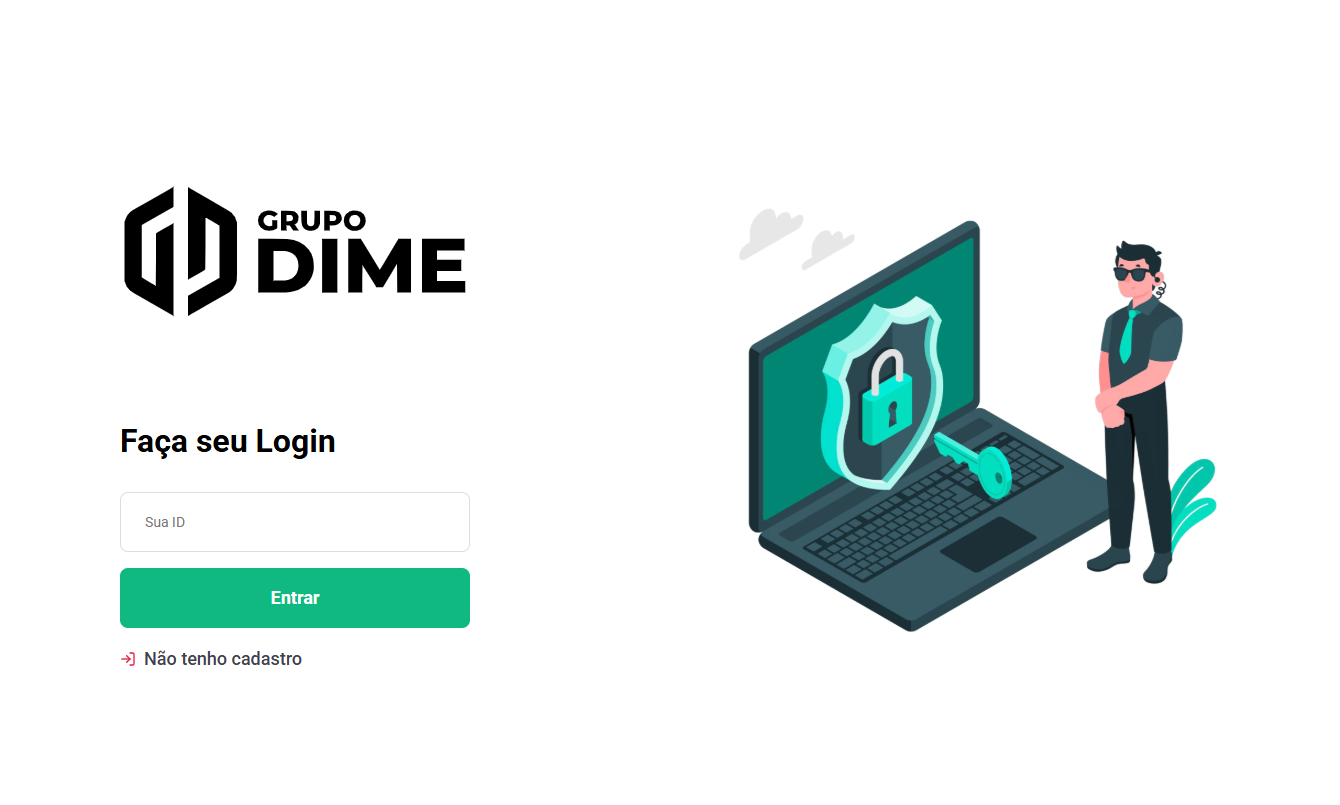
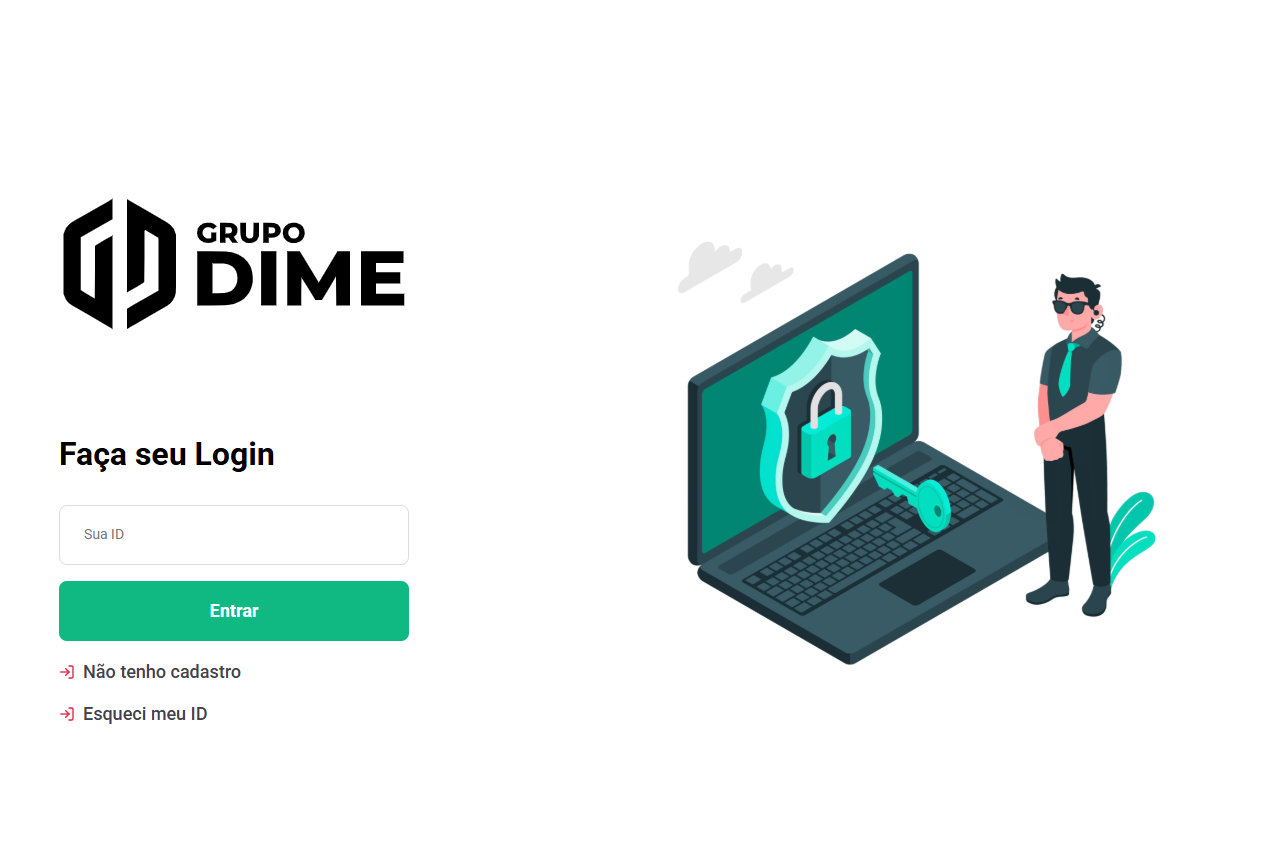
ATT 1.0 25/06/25

diff --git a/mobile/src/pages/BiparCracha.js b/mobile/src/pages/BiparCracha.js
@@ -8,10 +8,12 @@ import {
   Platform,
   Keyboard,
   TextInput,
+  Vibration,
 } from 'react-native';
 import { useNavigation } from '@react-navigation/native';
 import { Ionicons } from '@expo/vector-icons';
 import AsyncStorage from '@react-native-async-storage/async-storage';
+import { Audio } from 'expo-av';
 import api from '../services/api';
 
 export default function BiparCracha() {
@@ -24,7 +26,14 @@ export default function BiparCracha() {
   const [nomeFuncionario, setNomeFuncionario] = useState('');
 
   const navigation = useNavigation();
-  const inputRef = useRef(null); // Referência ao TextInput
+  const inputRef = useRef(null);
+  const soundRef = useRef(null); // Reutiliza o som carregado
+
+  useEffect(() => {
+    Audio.setAudioModeAsync({
+      playsInSilentModeIOS: true,
+    });
+  }, []);
 
   useEffect(() => {
     const timer = setTimeout(() => {
@@ -41,6 +50,30 @@ export default function BiparCracha() {
       return () => clearTimeout(timeout);
     }
   }, [showPopup]);
+
+  const playSound = async (file) => {
+    try {
+      if (soundRef.current) {
+        await soundRef.current.unloadAsync();
+      }
+
+      const { sound } = await Audio.Sound.createAsync(file);
+      soundRef.current = sound;
+
+      sound.setOnPlaybackStatusUpdate((status) => {
+        if (status.didJustFinish) {
+          sound.unloadAsync();
+        }
+      });
+
+      await sound.playAsync();
+    } catch (error) {
+      console.log('Erro ao tocar som:', error);
+    }
+  };
+
+  const playSoundAprovado = () => playSound(require('../assets/aprovado.mp3'));
+  const playSoundNegado = () => playSound(require('../assets/negado.mp3'));
 
   const handleBipar = async () => {
     try {
@@ -62,9 +95,13 @@ export default function BiparCracha() {
       setNomeFuncionario(response.data.nomeFuncionario || '');
       setCracha('');
       Keyboard.dismiss();
+      await playSoundAprovado(); // Som de sucesso
     } catch (error) {
       const status = error.response?.status;
       const msg = error.response?.data?.error || 'Erro ao registrar ponto';
+
+      Vibration.vibrate(400); // Vibração em erro
+      await playSoundNegado(); // Som de erro
 
       if (status === 400 && msg.toLowerCase().includes('obrigatório')) {
         setPopupTipo('alerta');
@@ -75,7 +112,7 @@ export default function BiparCracha() {
       }
 
       setCracha('');
-      inputRef.current?.focus(); // Redefine foco automaticamente
+      inputRef.current?.focus();
       setMensagem(msg);
       setShowPopup(true);
     } finally {
@@ -85,7 +122,6 @@ export default function BiparCracha() {
 
   return (
     <View style={styles.container}>
-      {/* POPUP */}
       {showPopup && (
         <View style={styles.popupContainer}>
           <View
@@ -103,7 +139,6 @@ export default function BiparCracha() {
         </View>
       )}
 
-      {/* HEADER */}
       <View style={styles.header}>
         <TouchableOpacity onPress={() => navigation.goBack()} style={styles.backButton}>
           <Ionicons name="arrow-back" size={28} color="#e02041" />
@@ -111,7 +146,6 @@ export default function BiparCracha() {
         </TouchableOpacity>
       </View>
 
-      {/* FORMULÁRIO */}
       <View style={styles.card}>
         <Text style={styles.title}>Registro de Ponto</Text>
 
@@ -282,4 +316,3 @@ const styles = StyleSheet.create({
     fontSize: 16,
   },
 });
-

diff --git a/mobile/src/pages/NewIncident.js b/mobile/src/pages/NewIncident.js
@@ -14,6 +14,7 @@ import {
   Pressable
 } from 'react-native';
 import * as ImagePicker from 'expo-image-picker';
+import * as FileSystem from 'expo-file-system';
 import DateTimePicker from '@react-native-community/datetimepicker';
 import { Picker } from '@react-native-picker/picker';
 import AsyncStorage from '@react-native-async-storage/async-storage';
@@ -81,8 +82,19 @@ export default function NewVisitorMobile() {
     });
 
     if (!result.canceled) {
-      const image = result.assets[0];
-      setForm(prev => ({ ...prev, fotos: [...prev.fotos, image] }));
+      const originalUri = result.assets[0].uri;
+      const fileName = originalUri.split('/').pop();
+      const newPath = FileSystem.documentDirectory + fileName;
+
+      await FileSystem.copyAsync({
+        from: originalUri,
+        to: newPath
+      });
+
+      setForm(prev => ({
+        ...prev,
+        fotos: [...prev.fotos, { ...result.assets[0], uri: newPath }]
+      }));
     }
   };
 
@@ -104,8 +116,25 @@ export default function NewVisitorMobile() {
     });
 
     if (!result.canceled) {
-      const novas = result.assets.slice(0, 3 - form.fotos.length);
-      setForm(prev => ({ ...prev, fotos: [...prev.fotos, ...novas] }));
+      const novasImagens = await Promise.all(
+        result.assets.slice(0, 3 - form.fotos.length).map(async (asset) => {
+          const originalUri = asset.uri;
+          const fileName = originalUri.split('/').pop();
+          const newPath = FileSystem.documentDirectory + fileName;
+
+          await FileSystem.copyAsync({
+            from: originalUri,
+            to: newPath
+          });
+
+          return { ...asset, uri: newPath };
+        })
+      );
+
+      setForm(prev => ({
+        ...prev,
+        fotos: [...prev.fotos, ...novasImagens]
+      }));
     }
   };
 
@@ -385,4 +414,3 @@ const styles = StyleSheet.create({
     height: '90%'
   }
 });
-

diff --git a/mobile/src/pages/Logon.js b/mobile/src/pages/Logon.js
@@ -8,7 +8,6 @@ import AsyncStorage from '@react-native-async-storage/async-storage';
 import { Feather } from '@expo/vector-icons';
 
 import logoImg from '../assets/logo.png';
-import heroesImg from '../assets/ilustracao-seguranca.png';
 import api from '../services/api';
 
 export default function Logon() {
@@ -98,8 +97,6 @@ export default function Logon() {
           <Feather name="help-circle" size={16} color="#41414d" style={styles.icon} />
           <Text style={styles.registerText}>Esqueci meu ID</Text>
         </TouchableOpacity>
-
-        <Image source={heroesImg} style={styles.heroImage} resizeMode="contain" />
       </View>
     </View>
   );
@@ -166,10 +163,5 @@ const styles = {
   },
   icon: {
     marginRight: 2,
-  },
-  heroImage: {
-    width: '100%',
-    height: 300,
-    marginTop: 30
   }
 };
